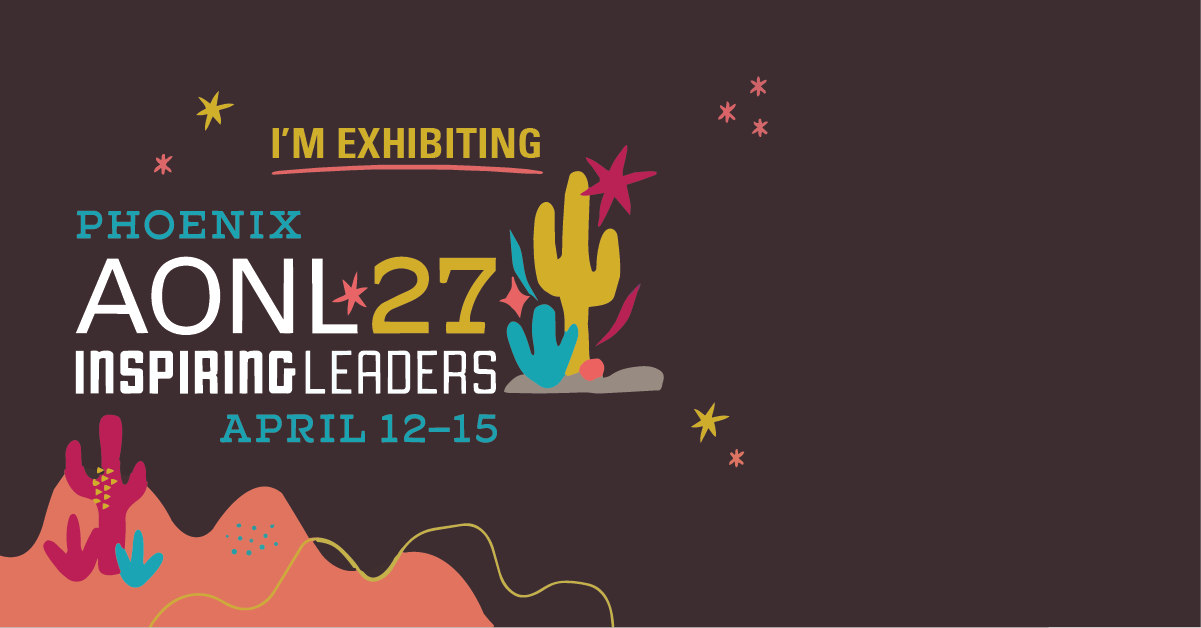
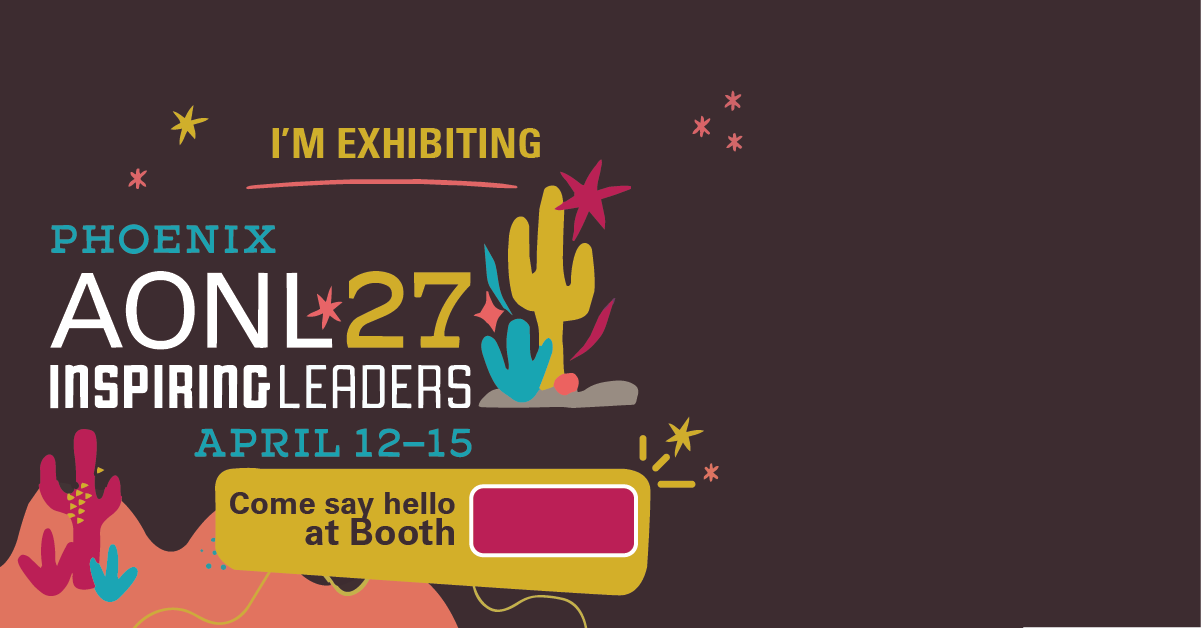
feat: add booth number input and rendering to exhibiting template

diff --git a/app/templates/exhibiting/page.tsx b/app/templates/exhibiting/page.tsx
@@ -11,6 +11,7 @@ export default function BadgeCreator() {
   const [profileImage, setProfileImage] = useState<string | null>('/placeholder-avatar.png');
   const [profileImageName, setProfileImageName] = useState('');
   const [name, setName] = useState('Your name and title');
+  const [boothNumber, setBoothNumber] = useState('');
   const fileInputRef = useRef<HTMLInputElement | null>(null);
 
   // Handle resizing and dragging of avatar image
@@ -160,6 +161,12 @@ export default function BadgeCreator() {
     }
   };
 
+  const handleBoothChange = (e: React.ChangeEvent<HTMLInputElement>) => {
+    // Only allow digits up to 4 characters
+    const val = e.target.value.replace(/\D/g, '').slice(0, 4);
+    setBoothNumber(val);
+  };
+
   const resetImagePosition = () => {
     setImageOffset({ x: 0, y: 0 });
     setImageScale(1);
@@ -184,6 +191,17 @@ export default function BadgeCreator() {
     background.src = '/AONL2027_Template_LinkedIn_Exhibiting.png';
     background.onload = () => {
       ctx.drawImage(background, 0, 0, 1200, 627);
+
+      // Render booth number in the fuchsia box beside "Come say hello at Booth"
+      if (boothNumber) {
+        ctx.save();
+        ctx.font = '600 34px "Inter", Arial, sans-serif';
+        ctx.fillStyle = '#ffffff';
+        ctx.textAlign = 'center';
+        ctx.textBaseline = 'middle';
+        ctx.fillText(boothNumber, 553, 520);
+        ctx.restore();
+      }
 
       if (profileImage) {
         const profile = new Image();
@@ -223,12 +241,12 @@ export default function BadgeCreator() {
           ctx.restore();
 
           // Render name and title with crisp Inter font
-          const fontSize = 34; // Tamaño de la fuente (puedes aumentarlo ej. a 36 o 38)
-          const lineHeight = 40; // Espaciado entre líneas
+          const fontSize = 34;
+          const lineHeight = 40;
           ctx.font = `600 ${fontSize}px "Inter", Arial, sans-serif`;
           ctx.fillStyle = '#ffffff';
 
-          const maxWidth = 380; // Ancho máximo acorde al círculo (diámetro 380px)
+          const maxWidth = 380;
           const lines = [];
           let currentLine = '';
           const words = name.split(' ');
@@ -247,7 +265,7 @@ export default function BadgeCreator() {
 
           ctx.textAlign = 'center';
           const centerX = 950;
-          const startY = 530; // Posición vertical inicial
+          const startY = 530;
           lines.forEach((line, i) => {
             ctx.fillText(line.trim(), centerX, startY + i * lineHeight);
           });
@@ -258,7 +276,7 @@ export default function BadgeCreator() {
 
   useEffect(() => {
     drawCanvas();
-  }, [canvasWidth, canvasHeight, profileImage, name, imageOffset, imageScale]);
+  }, [canvasWidth, canvasHeight, profileImage, name, boothNumber, imageOffset, imageScale]);
 
   const downloadImage = () => {
     const canvas = canvasRef.current;
@@ -293,7 +311,7 @@ export default function BadgeCreator() {
               Customize Your Exhibiting Badge
             </h1>
             <p className="text-sm text-gray-500 font-sans mt-1">
-              Upload your photo or company logo, reposition or zoom, and add your name to highlight your exhibit at AONL 2027.
+              Upload your photo or company logo, reposition or zoom, and add your name and booth number to highlight your exhibit at AONL 2027.
             </p>
           </div>
 
@@ -301,7 +319,7 @@ export default function BadgeCreator() {
             variant="plum"
             onClick={() => {
               downloadImage();
-              trackEvent('download_image', { name, template: 'exhibiting' });
+              trackEvent('download_image', { name, booth: boothNumber, template: 'exhibiting' });
             }}
             className="flex items-center justify-center gap-2 px-6 py-3 shadow-md text-base"
           >
@@ -316,9 +334,9 @@ export default function BadgeCreator() {
       <div className="max-w-6xl mx-auto px-4 sm:px-6 mt-6 flex flex-col items-center gap-6">
         {/* Controls Card */}
         <div className="w-full max-w-4xl bg-white rounded-2xl border border-gray-200/80 shadow-sm p-4 sm:p-6">
-          <div className="grid grid-cols-1 md:grid-cols-2 gap-4 items-end">
-            {/* Photo Upload */}
-            <div className="space-y-1.5">
+          <div className="grid grid-cols-1 md:grid-cols-12 gap-4 items-end">
+            {/* 1. Photo Upload */}
+            <div className="md:col-span-5 space-y-1.5">
               <label className="block text-xs font-semibold uppercase tracking-wider text-gray-600">
                 1. Your Photo or Logo
               </label>
@@ -344,8 +362,8 @@ export default function BadgeCreator() {
               </div>
             </div>
 
-            {/* Name & Title Input */}
-            <div className="space-y-1.5">
+            {/* 2. Name & Title Input */}
+            <div className="md:col-span-4 space-y-1.5">
               <label className="block text-xs font-semibold uppercase tracking-wider text-gray-600">
                 2. Name and Title / Company
               </label>
@@ -355,6 +373,23 @@ export default function BadgeCreator() {
                 className="w-full border border-gray-300 focus:border-[#3d2d30] focus:ring-2 focus:ring-[#3d2d30]/20 rounded-lg px-3.5 py-2 text-sm text-gray-800 placeholder:text-gray-400 outline-none transition-all"
                 value={name}
                 onChange={(e) => setName(e.target.value)}
+                onFocus={(e) => e.target.select()}
+              />
+            </div>
+
+            {/* 3. Booth Number Input (Only for Exhibiting) */}
+            <div className="md:col-span-3 space-y-1.5">
+              <label className="block text-xs font-semibold uppercase tracking-wider text-gray-600">
+                3. Booth # (Max 4 digits)
+              </label>
+              <input
+                type="text"
+                inputMode="numeric"
+                maxLength={4}
+                placeholder="E.g., 1234"
+                className="w-full border border-gray-300 focus:border-[#3d2d30] focus:ring-2 focus:ring-[#3d2d30]/20 rounded-lg px-3.5 py-2 text-sm text-gray-800 placeholder:text-gray-400 outline-none transition-all font-semibold tracking-wider text-center"
+                value={boothNumber}
+                onChange={handleBoothChange}
                 onFocus={(e) => e.target.select()}
               />
             </div>
@@ -398,7 +433,7 @@ export default function BadgeCreator() {
             variant="plum"
             onClick={() => {
               downloadImage();
-              trackEvent('download_image', { name, template: 'exhibiting' });
+              trackEvent('download_image', { name, booth: boothNumber, template: 'exhibiting' });
             }}
             className="w-full sm:w-auto px-10 py-3.5 text-base shadow-lg flex items-center justify-center gap-2"
           >
